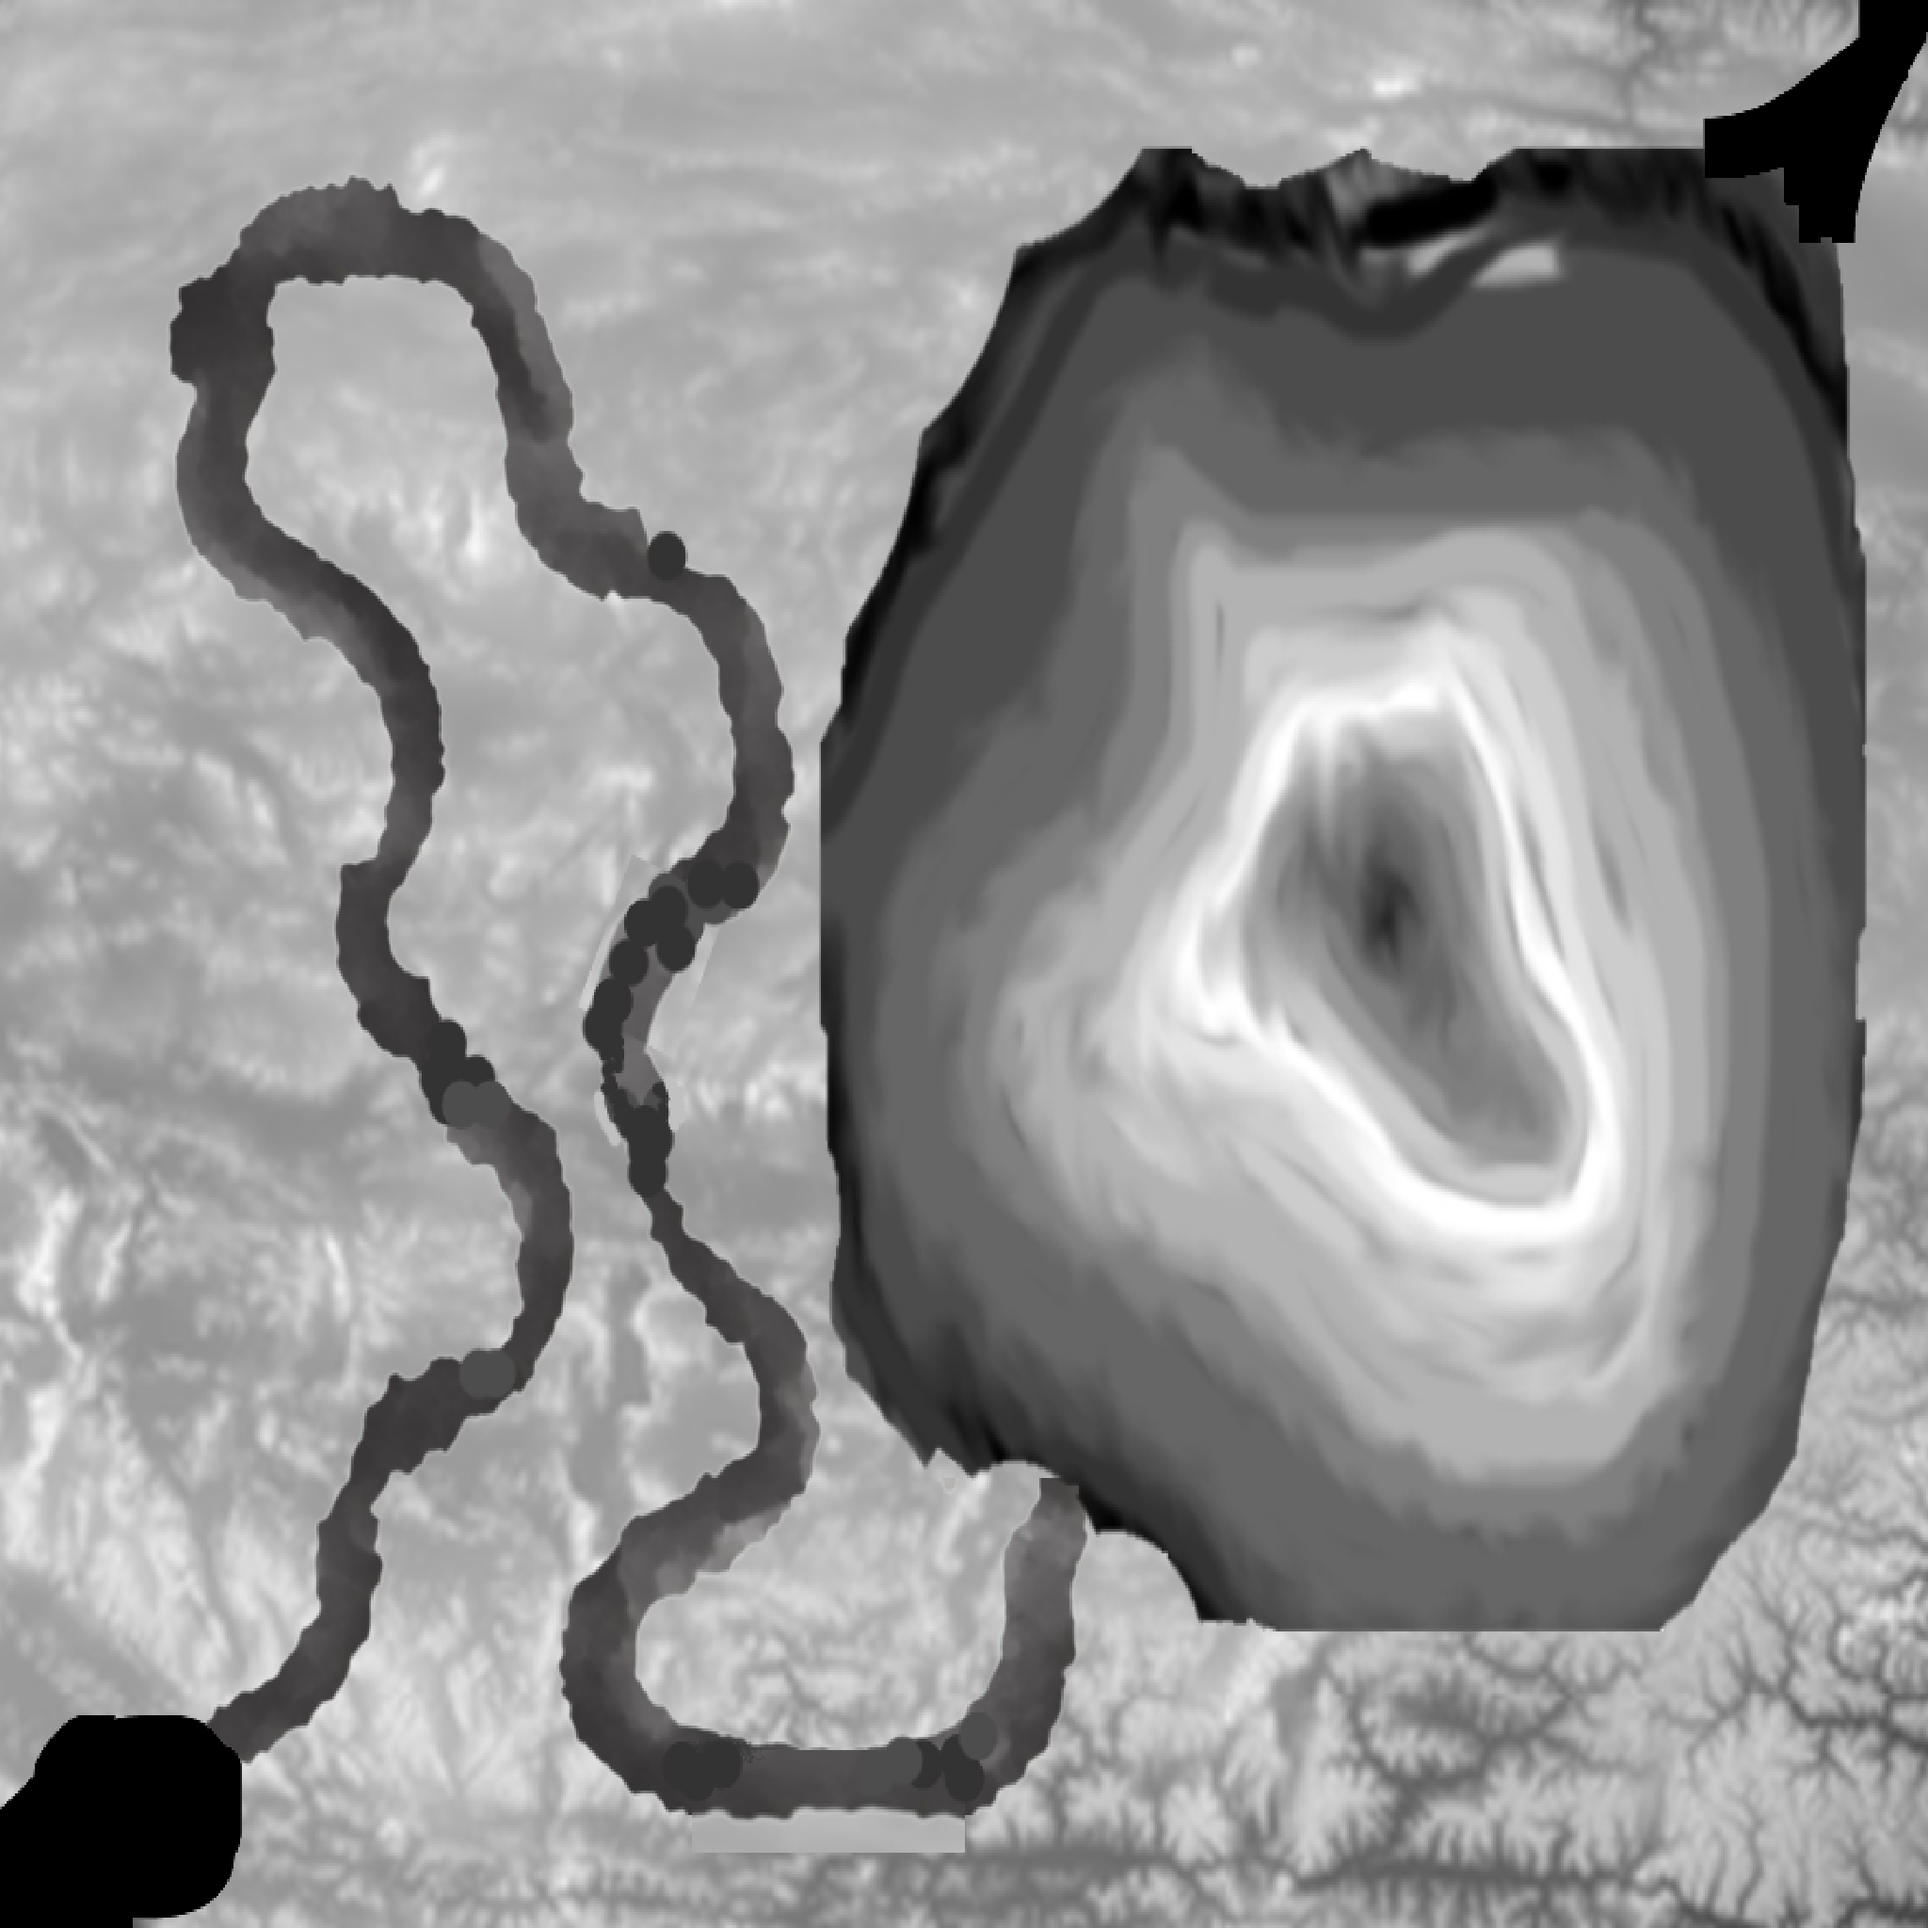
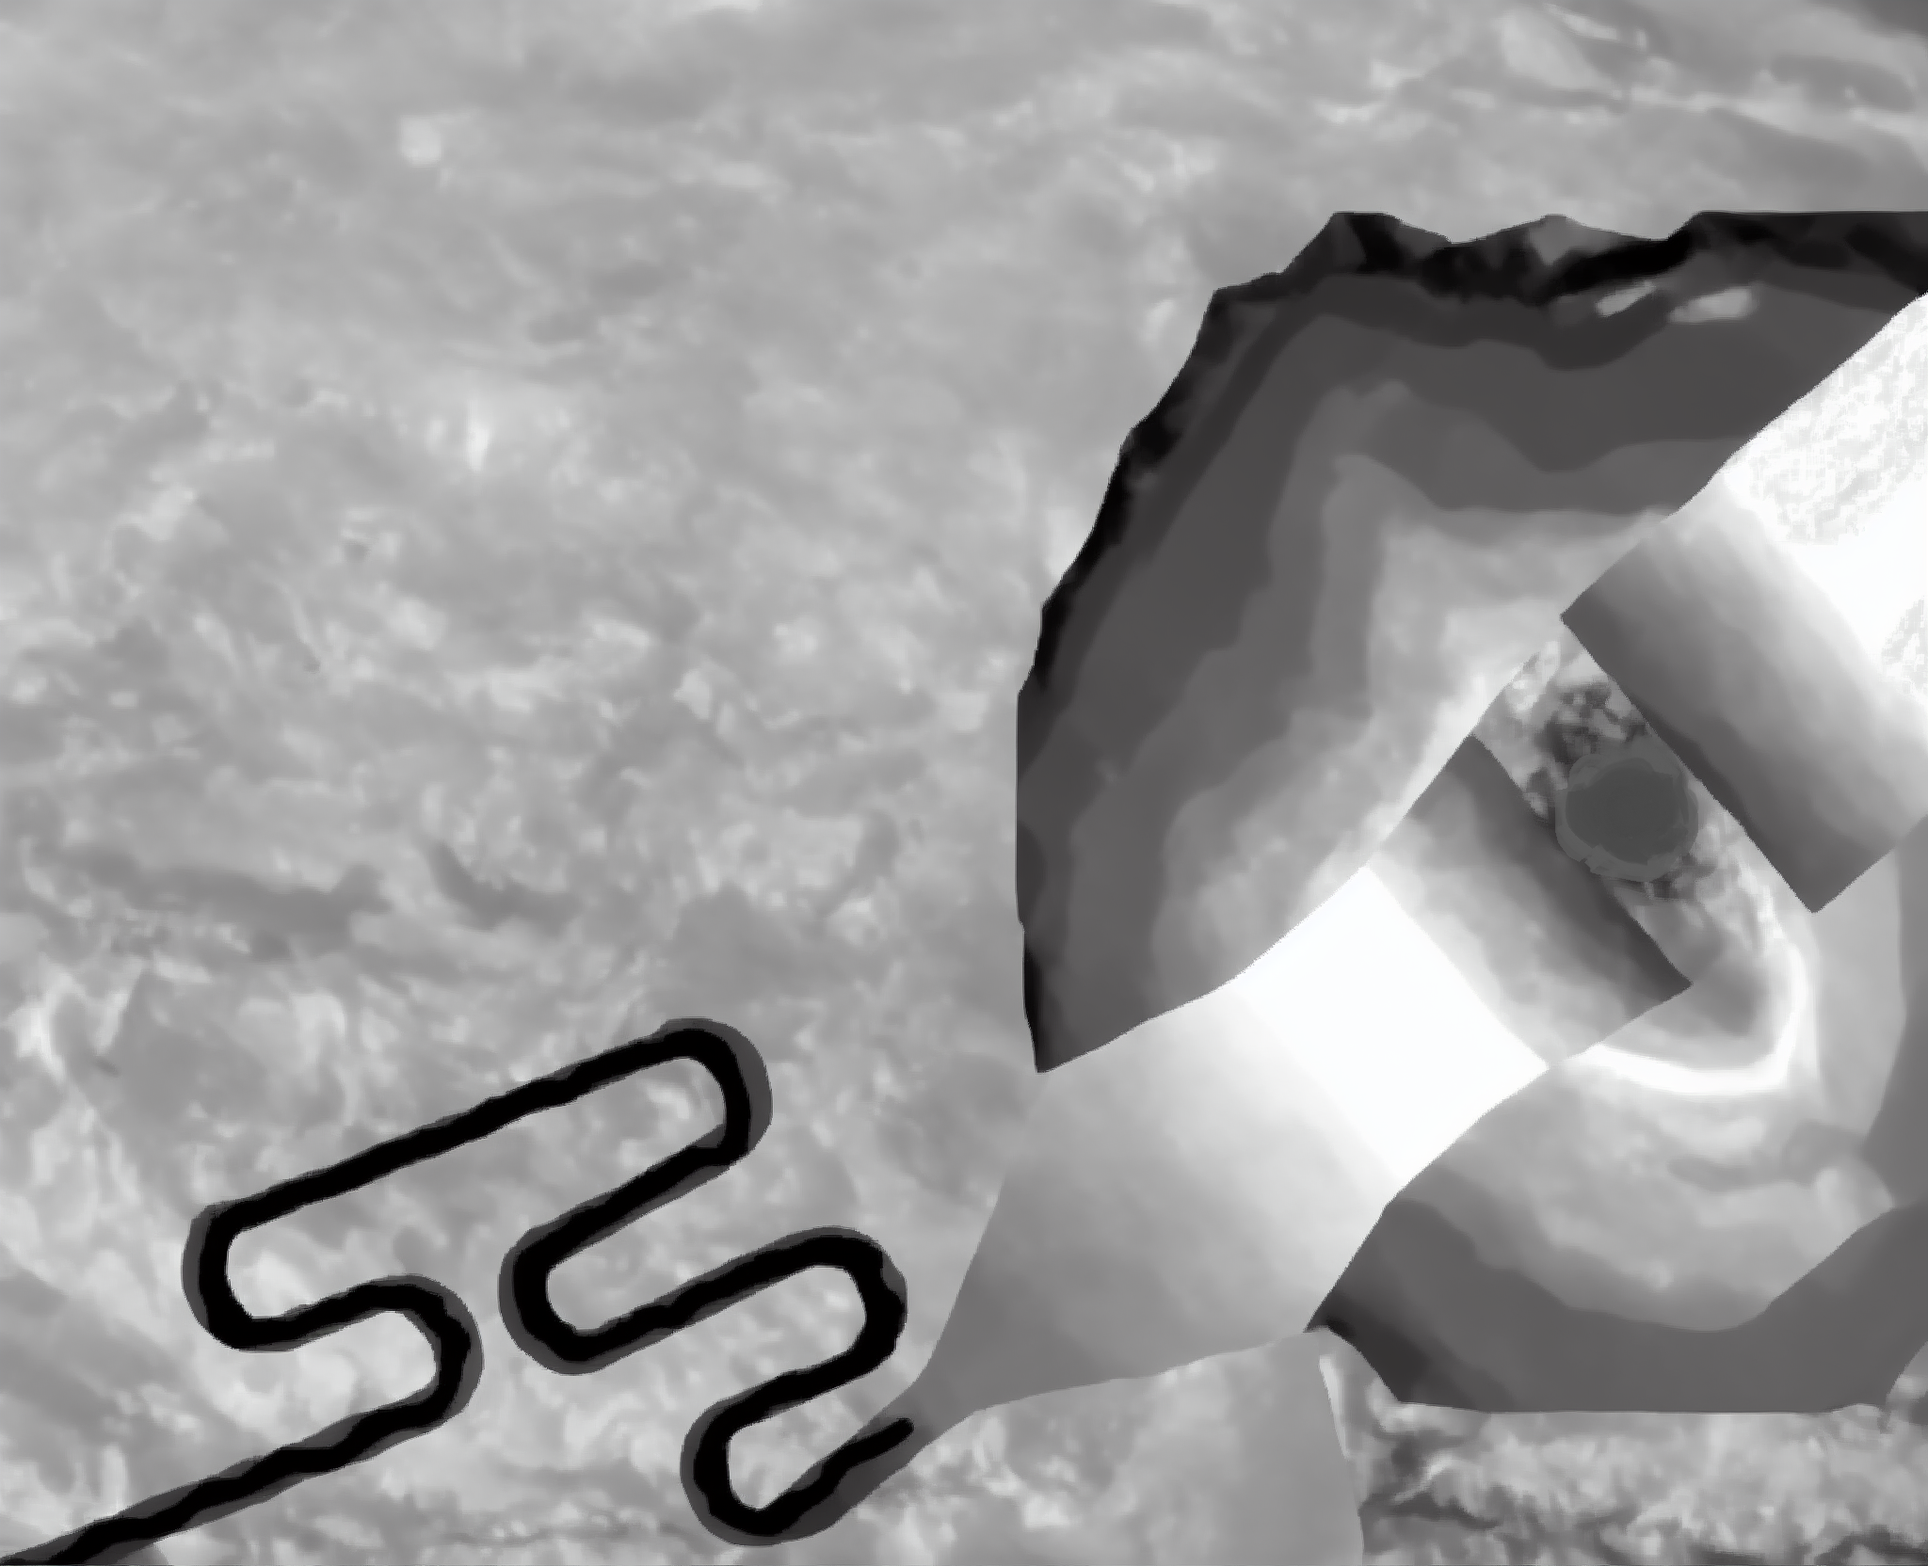
map design, delete spacebar, etc

diff --git a/src/controls.js b/src/controls.js
@@ -327,9 +327,7 @@ export const controls = (function() {
         case 69: // e
           this._move.rollRight = true;
           break;
-        case 32: // SPACE
-          this._move.rocket = true;
-          break;
+
         case 13: // ENTER
           this._move.fire = true;
         case 38: // up
@@ -360,8 +358,7 @@ export const controls = (function() {
         case 69: // e
         this._move.rollRight = false;
           break;
-        case 32: // SPACE
-          this._move.rocket = false;
+
           break;
         case 13: // ENTER
           this._move.fire = false;
@@ -392,38 +389,35 @@ export const controls = (function() {
 
       if (this._move.forward) {
         _A.set(1, 0, 0);
-        _Q.setFromAxisAngle(_A, -Math.PI * timeInSeconds * this._acceleration.y*0.4);
+        _Q.setFromAxisAngle(_A, -Math.PI * timeInSeconds * this._acceleration.y*0.2);
         _R.multiply(_Q);
       }
       if (this._move.backward) {
         _A.set(1, 0, 0);
-        _Q.setFromAxisAngle(_A, Math.PI * timeInSeconds * this._acceleration.y*1.1);
+        _Q.setFromAxisAngle(_A, Math.PI * timeInSeconds * this._acceleration.y*0.8);
         _R.multiply(_Q);
       }
       if (this._move.left) {
         _A.set(0, 1, 0);
-        _Q.setFromAxisAngle(_A, Math.PI * timeInSeconds * this._acceleration.y*0.3);
+        _Q.setFromAxisAngle(_A, Math.PI * timeInSeconds * this._acceleration.y*0.2);
         _R.multiply(_Q);
       }
       if (this._move.right) {
         _A.set(0, 1, 0);
-        _Q.setFromAxisAngle(_A, -Math.PI * timeInSeconds * this._acceleration.y*0.3);
+        _Q.setFromAxisAngle(_A, -Math.PI * timeInSeconds * this._acceleration.y*0.2);
         _R.multiply(_Q);
       }
       if (this._move.rollLeft) {
         _A.set(0, 0, -1);
-        _Q.setFromAxisAngle(_A, -Math.PI * timeInSeconds * this._acceleration.y);
+        _Q.setFromAxisAngle(_A, -Math.PI * timeInSeconds * this._acceleration.y*1.1);
         _R.multiply(_Q);
       }
       if (this._move.rollRight) {
         _A.set(0, 0, -1);
-        _Q.setFromAxisAngle(_A, Math.PI * timeInSeconds * this._acceleration.y);
+        _Q.setFromAxisAngle(_A, Math.PI * timeInSeconds * this._acceleration.y*1.1);
         _R.multiply(_Q);
       }
-      if (this._move.rocket) {
-        // this._params.target.TakeDamage(100);
-        velocity.z -= this._acceleration.x * timeInSeconds * 15;
-      }
+
       velocity.z -= this._acceleration.x * timeInSeconds * 15;
       controlObject._model.quaternion.copy(_R);
 
@@ -442,7 +436,7 @@ export const controls = (function() {
 
       sideways.multiplyScalar(velocity.x * timeInSeconds);
       updown.multiplyScalar(velocity.y * timeInSeconds);
-      forward.multiplyScalar(velocity.z * timeInSeconds*1.5);
+      forward.multiplyScalar(velocity.z * timeInSeconds*2.3);
 
       controlObject._model.position.add(forward);
       controlObject._model.position.add(sideways);
@@ -456,7 +450,7 @@ export const controls = (function() {
       const offset = new THREE.Vector3(0, 4, math.smootherstep(offsetFactor, 10.0, 15.0));
       offset.applyQuaternion(this._params.camera.quaternion);
 
-      this._params.camera.quaternion.slerp(this._params.target._model.quaternion, timeInSeconds * 2.0);
+      this._params.camera.quaternion.slerp(this._params.target._model.quaternion, timeInSeconds * 1.5);
   
       const position = new THREE.Vector3();
       position.copy(this._params.target._model.position);

diff --git a/index.html b/index.html
@@ -50,10 +50,10 @@
     void main() 
     {
       vec4 water = (smoothstep(0.01, 0.25, vAmount) - smoothstep(0.24, 0.26, vAmount)) * texture2D( oceanTexture, vUV * 10.0 );
-      vec4 sandy = (smoothstep(0.24, 0.27, vAmount) - smoothstep(0.28, 0.31, vAmount)) * texture2D( sandyTexture, vUV * 10.0 );
+      vec4 sandy = (smoothstep(0.15, 0.27, vAmount) - smoothstep(0.25, 0.32, vAmount)) * texture2D( sandyTexture, vUV * 10.0 );
       vec4 grass = (smoothstep(0.28, 0.32, vAmount) - smoothstep(0.35, 0.40, vAmount)) * texture2D( grassTexture, vUV * 20.0 );
       vec4 rocky = (smoothstep(0.30, 0.50, vAmount) - smoothstep(0.40, 0.70, vAmount)) * texture2D( rockyTexture, vUV * 20.0 );
-      vec4 snowy = (smoothstep(0.50, 0.65, vAmount))                                   * texture2D( snowyTexture, vUV * 10.0 );
+      vec4 snowy = (smoothstep(0.50, 0.85, vAmount))                                   * texture2D( snowyTexture, vUV * 10.0 );
       gl_FragColor = vec4(0.0, 0.0, 0.0, 1.0) + water + sandy + grass + rocky + snowy; //, 1.0);
     }
   </script>

diff --git a/src/main.js b/src/main.js
@@ -290,7 +290,7 @@ class ProceduralTerrain_Demo extends game.Game {
       bumpTexture:	{ type: "t", value: bumpTexture },
       bumpScale:	    { type: "f", value: bumpScale },
       oceanTexture:	{ type: "t", value: oceanTexture },
-      sandyTexture:	{ type: "t", value: sandyTexture },
+      sandyTexture:	{ type: "t ", value: sandyTexture },
       grassTexture:	{ type: "t", value: grassTexture },
       rockyTexture:	{ type: "t", value: rockyTexture },
       snowyTexture:	{ type: "t", value: snowyTexture },
